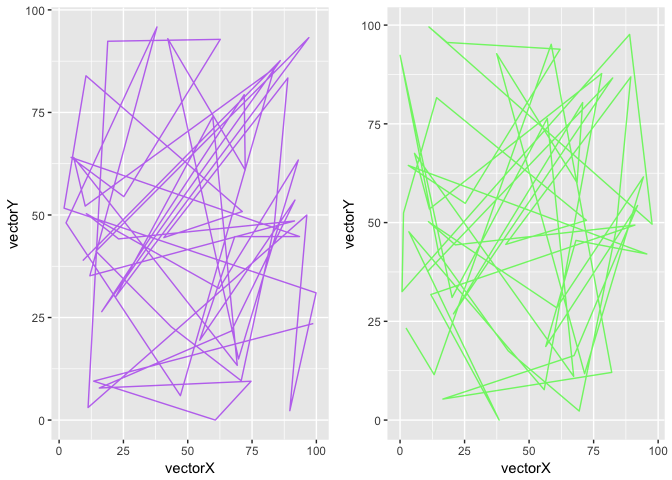
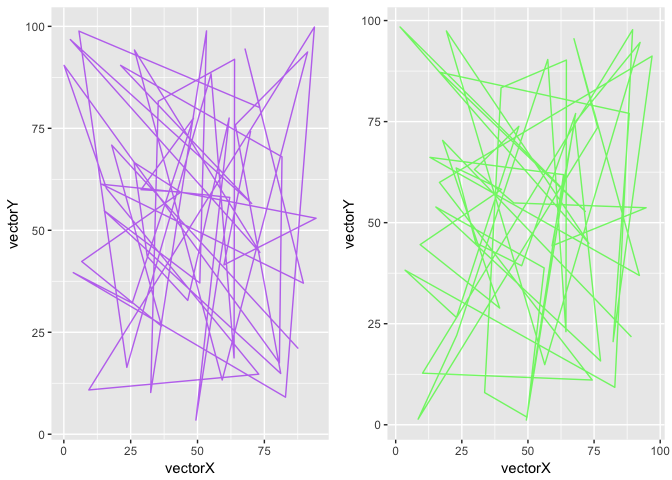
caution

diff --git a/XY-molecular-diffusion/mol-diffusion.md b/XY-molecular-diffusion/mol-diffusion.md
@@ -64,14 +64,16 @@ diffusion.sim <- sim(diffusion.model)
 out(diffusion.sim)[[34]]$x
 ```
 
-    ##  [1] 10.885741 83.669403 18.296181 73.294348 70.254538 39.084972 71.612993
-    ##  [8] 92.359621 62.731695 11.097747 21.794119 91.197294 12.543727 38.609391
-    ## [15]  3.379766 53.214167 77.734893 10.958748  7.319485 67.367878 57.653159
-    ## [22] 22.434465 97.511995 12.560244 41.980000 71.533695 83.913634 86.232083
-    ## [29] 40.712220 72.364760 12.469860  1.752888 99.692449 87.625889 97.472081
-    ## [36] 11.545896 17.837459 62.613281 24.962542  3.078355 94.400277 68.085612
-    ## [43] 57.393664 91.967703 66.916186 14.335474 76.902257 61.111829 12.549573
-    ## [50]  0.679925
+    ##  [1] 89.01311736 17.35509104 38.89933667  8.61174157 38.56107661
+    ##  [6] 24.71023626 30.02875948 48.39796311 65.34214774 48.18045579
+    ## [11] 61.81210263 11.84914319 89.28195877 68.67182108 74.17385669
+    ## [16]  6.17341074 21.32980205 56.98663007 61.20544184 63.13575690
+    ## [21] 39.70584314 31.82293600 49.56178737 53.17552185 15.52038291
+    ## [26] 80.12240186 66.83647257 94.01077226 58.04066604 20.13629380
+    ## [31] 73.19891449  0.01089931 71.49542660 17.54140149 84.14100287
+    ## [36] 80.67124307 98.82442989 17.79639744 71.48920893  8.03830982
+    ## [41] 91.63653394 83.61048827  3.30958971 24.01592222 46.80807161
+    ## [46] 28.71856715 43.73080681 94.42781953 59.26492166 69.62789049
 
 ``` r
 plot(out(diffusion.sim)[[34]]$x)
@@ -119,13 +121,13 @@ points.df$rowNum <- seq.int(nrow(points.df))
 head(points.df)
 ```
 
-    ##    vectorX  vectorY rowNum
-    ## 1 10.88574 34.17376      1
-    ## 2 83.66940 86.78902      2
-    ## 3 18.29618 27.53370      3
-    ## 4 73.29435 79.99880      4
-    ## 5 70.25454 56.44146      5
-    ## 6 39.08497 93.04567      6
+    ##     vectorX  vectorY rowNum
+    ## 1 89.013117 23.25283      1
+    ## 2 17.355091 70.10649      2
+    ## 3 38.899337 30.02460      3
+    ## 4  8.611742 44.15206      4
+    ## 5 38.561077 57.58343      5
+    ## 6 24.710236 63.53623      6
 
 ``` r
 plotupca(points.df, type="S3")
@@ -150,26 +152,17 @@ for (j in 1:50) {
     rm("path.df")
 }
 # move.list is a list of dataframes that individually represent the x,y path
-# of each particle (row1 represnts particle1)
-# walk through the 50 particles in each move to collect its path
+# of each particle (row1/df1 represents particle1)
+# CAUTION: wrap-around is not identified
 
 # plot the path of particle #21 and #41
 df <- as.data.frame(move.list[21])
 gg1 <- ggplot()  +
-    geom_path(aes(x=vectorX, y=vectorY), df, fill="green", shape=21, colour = "purple", alpha=0.6) 
-```
-
-    ## Warning: Ignoring unknown parameters: fill, shape
-
-``` r
+    geom_path(aes(x=vectorX, y=vectorY), df, colour = "purple", alpha=0.6) 
 df <- as.data.frame(move.list[41])
 gg2 <- ggplot()  +
-    geom_path(aes(x=vectorX, y=vectorY), df, fill="red", shape=21, colour = "green", alpha=0.6)
-```
+    geom_path(aes(x=vectorX, y=vectorY), df, colour = "green", alpha=0.6)
 
-    ## Warning: Ignoring unknown parameters: fill, shape
-
-``` r
 grid.arrange(gg1, gg2, ncol=2, nrow=1)
 ```
 
@@ -180,57 +173,57 @@ head(out(diffusion.sim)[22])
 ```
 
     ## [[1]]
-    ##            x          y           a
-    ## 1   9.904286  38.152910   4460.2538
-    ## 2  86.039838  88.638207    491.6006
-    ## 3  16.473467  25.438553    733.4626
-    ## 4  72.584688  80.103823    421.8601
-    ## 5  73.305582  61.221653    339.5749
-    ## 6  41.672000  92.159517    500.4822
-    ## 7  69.381940  13.957178    651.5095
-    ## 8  92.131543  62.872739    349.2734
-    ## 9  63.055112  32.533073    666.4903
-    ## 10 10.778524  50.269702    376.7374
-    ## 11 23.113349  43.966530    457.0753
-    ## 12 91.691349  48.523113    779.0287
-    ## 13 11.100714  35.694200   1472.8588
-    ## 14 37.166909  96.313340   4199.8139
-    ## 15  2.858997  47.976334   2336.8010
-    ## 16 47.630362   5.069546    350.7921
-    ## 17 83.341325  86.686554    956.8694
-    ## 18 10.215150  51.982006    627.0972
-    ## 19  4.905208  63.385000    575.6021
-    ## 20 69.470302  12.362827   1255.2904
-    ## 21 58.727591  73.699242    499.7505
-    ## 22 22.922085  30.492111    320.8537
-    ## 23 97.422809  92.293818 677998.4484
-    ## 24 13.317590  41.227923    606.2760
-    ## 25 43.491548  21.727839    431.8421
-    ## 26 69.921589  10.091484    461.2886
-    ## 27 83.732071  47.325711    622.8063
-    ## 28 87.923358  83.450409    706.8117
-    ## 29 40.891840  44.530141   2576.3925
-    ## 30 71.054676  50.707806    720.1488
-    ## 31 11.371174  83.543102   2581.9899
-    ## 32  1.980028  51.852527    623.3055
-    ## 33 99.216681  31.758016    699.7441
-    ## 34 89.045267   1.513541   1417.7442
-    ## 35 96.473925  50.069068    974.3295
-    ## 36 11.783992   2.206031    382.2608
-    ## 37 19.812798  92.780180   1552.3858
-    ## 38 61.950298  93.520303    668.3841
-    ## 39 25.255545  54.635157    371.6589
-    ## 40  3.786678  63.569945    518.8582
-    ## 41 93.263712  44.818077    323.1941
-    ## 42 68.324898  44.913098   1653.7419
-    ## 43 55.359178  18.740780    369.8915
-    ## 44 91.807412  53.484279   1984.6272
-    ## 45 66.741517  20.732597    293.5253
-    ## 46 15.691627   8.811674    711.4888
-    ## 47 74.885948   8.505724    708.6987
-    ## 48 61.295577 100.000000    363.4866
-    ## 49 12.575562   8.959802    355.5578
-    ## 50 99.805539  23.526666   1300.6031
+    ##             x         y         a
+    ## 1  88.1069419 21.903629 1056.7034
+    ## 2  18.8116680 70.491283  451.9840
+    ## 3  37.0608377 27.347766  962.3657
+    ## 4   5.7794797 42.783464  750.3946
+    ## 5  42.7372491 59.137214  600.2553
+    ## 6  25.7782510 65.773439  418.8945
+    ## 7  30.3068019 44.110944 5544.4007
+    ## 8  46.6616449 33.753496  673.5486
+    ## 9  62.4325551 76.716339  614.8185
+    ## 10 48.9068753  4.343983 2100.6617
+    ## 11 61.8639800 59.043732  900.2822
+    ## 12 13.5315581 62.032983  831.6806
+    ## 13 88.6111528 36.904057  336.2852
+    ## 14 68.5335120 93.779019  376.2736
+    ## 15 72.3216858 80.039220 1812.7264
+    ## 16  5.7362587 97.841703  501.1870
+    ## 17 24.0556703 17.256601 2979.2857
+    ## 18 56.0553789 88.174854  986.2690
+    ## 19 62.8664621 19.309190  988.9566
+    ## 20 63.8764422 92.931350  573.3307
+    ## 21 36.3002415 81.811485 5548.2279
+    ## 22 33.4412259 10.545159  452.7121
+    ## 23 52.4866987 99.333618  423.6467
+    ## 24 51.8468258 37.193486  389.6698
+    ## 25 15.2769723 54.711893 7539.3866
+    ## 26 82.1135812 14.946973  615.8095
+    ## 27 63.4610771 75.121324 1065.8060
+    ## 28 92.0779951 93.281529  615.2939
+    ## 29 60.1973122 13.535993  389.8092
+    ## 30 25.5008266 93.788673  468.5204
+    ## 31 73.5055018 44.656011  534.5469
+    ## 32  3.3261951 97.223264  251.8070
+    ## 33 71.2306352 56.781904  534.2950
+    ## 34 21.1428668 89.450619  475.8792
+    ## 35 82.0159381 68.910794 6259.2100
+    ## 36 81.5952713 17.260739 1828.1973
+    ## 37  0.7626647 91.168229  446.9280
+    ## 38 16.9320044 60.420545  471.3892
+    ## 39 73.8808286 14.946369  496.5975
+    ## 40  9.1189651  9.879275 1569.0033
+    ## 41 94.7276022 99.922557  282.8154
+    ## 42 82.9729114  8.082292  815.3122
+    ## 43  4.1992440 38.882415  790.8475
+    ## 44 24.9968887 32.972442 1962.5239
+    ## 45 48.0448815 78.399923  850.2663
+    ## 46 29.8272395 59.715871  634.3531
+    ## 47 43.1425489 58.405969 7996.7735
+    ## 48 94.3509172 52.758425 1060.3177
+    ## 49 59.6085089 40.561467  833.8069
+    ## 50 69.7803882 75.356244 1208.0552
 
 ``` r
 main(diffusion.sim)
@@ -269,57 +262,57 @@ main(diffusion.sim)
 init(diffusion.sim)
 ```
 
-    ##              x         y          a
-    ## 1  11.51367584 42.343733 3.80553934
-    ## 2  80.41044753 82.087925 0.50471829
-    ## 3  19.52366978 25.800379 2.44874195
-    ## 4  70.92901058 83.219835 5.15400322
-    ## 5  74.38716008 60.071659 2.25078039
-    ## 6  45.42285865 93.222312 3.95235351
-    ## 7  69.29529742 15.106208 0.56040624
-    ## 8  97.35064150 65.854928 5.33685412
-    ## 9  63.72259946 33.004535 5.47427265
-    ## 10 11.74330940 50.291628 1.75540812
-    ## 11 26.45134991 38.704685 0.09382701
-    ## 12 90.77757765 48.568390 6.21585088
-    ## 13 16.94570868 29.518710 5.98024536
-    ## 14 37.11152007 91.364190 4.55094561
-    ## 15  3.14037064 48.633881 3.68534549
-    ## 16 46.78738061  7.763693 0.82107303
-    ## 17 86.48695978 85.624436 4.67180773
-    ## 18 10.90985956 51.381586 3.03460412
-    ## 19  0.05020567 61.425194 3.62198057
-    ## 20 69.69837253  7.639765 0.73166187
-    ## 21 63.80575302 73.970218 2.15707872
-    ## 22 21.23060238 28.433255 2.63912772
-    ## 23 95.40393329 95.420043 4.59189654
-    ## 24 10.93568329 41.478924 3.95428737
-    ## 25 47.04444632 25.576408 4.43245930
-    ## 26 68.32919887  5.680803 0.25736731
-    ## 27 83.05855840 47.088853 0.03295166
-    ## 28 87.84439249 87.045895 5.26988756
-    ## 29 43.11840474 41.792970 2.48784507
-    ## 30 70.45226609 51.389379 3.09274640
-    ## 31 14.25960257 86.957212 6.16065118
-    ## 32  2.78800349 51.848876 2.17096616
-    ## 33 95.76363196 31.557081 5.57663273
-    ## 34 86.90573603  1.981344 5.12534603
-    ## 35 96.19896994 50.177821 0.82277352
-    ## 36  9.51719952  5.820337 4.67467120
-    ## 37 19.75034627 93.394527 2.27971349
-    ## 38 64.10772353  1.434153 2.61972686
-    ## 39 25.44009876 56.381874 3.60083913
-    ## 40 10.08476634 65.203320 6.12234621
-    ## 41 93.54828261 43.853994 2.48665680
-    ## 42 68.03725860 44.704534 4.14509183
-    ## 43 51.11922307 20.307156 4.34974669
-    ## 44 93.12838861 53.602419 1.83340407
-    ## 45 71.32325284 22.832901 5.87316925
-    ## 46 14.36203083 14.341441 0.65693216
-    ## 47 76.58859410  2.804629 2.68748868
-    ## 48 63.74177441 98.557079 0.74001496
-    ## 49 17.56891161  7.370317 2.49826884
-    ## 50 95.22198534 23.331724 4.32955004
+    ##             x          y           a
+    ## 1  89.8176688 20.9175626 3.387127430
+    ## 2  17.5608011 69.8094813 1.483246387
+    ## 3  36.0628396 25.8613132 3.107248560
+    ## 4   3.2248680 42.3110943 0.137712781
+    ## 5  39.2654890 55.0047679 5.796740170
+    ## 6  23.0106839 65.0140717 5.527337248
+    ## 7  31.6099235 42.2819749 2.450001390
+    ## 8  42.3162634 33.9713274 2.009350406
+    ## 9  65.1827416 75.6699523 2.881626803
+    ## 10 52.9802584  3.8122732 6.159252631
+    ## 11 69.3161634 57.5289337 2.084791738
+    ## 12 11.6383054 62.6657421 2.454157323
+    ## 13 87.0053281 40.4591758 4.666168643
+    ## 14 68.9865886 90.3023596 5.753449563
+    ## 15 73.1338595 87.4366200 0.873787447
+    ## 16  8.3815161 98.4746788 4.530808450
+    ## 17 20.3488982 17.2032066 6.053773853
+    ## 18 56.8749255 94.4561264 0.916619158
+    ## 19 68.2660590 21.1796992 0.007671978
+    ## 20 64.8897163 92.7621396 2.688439101
+    ## 21 36.3935287 88.4673918 1.237992251
+    ## 22 29.7668572  7.5557267 1.084638004
+    ## 23 55.8973416  0.6793483 0.579682715
+    ## 24 49.7417367 38.3464492 3.546079531
+    ## 25 15.9644923 54.4672432 3.289748782
+    ## 26 87.3064513 18.4615904 3.974448490
+    ## 27 63.3028936 77.6207658 5.543305626
+    ## 28 90.3343166 96.3508712 1.714354829
+    ## 29 54.5171436 13.6325621 0.339602018
+    ## 30 27.7560913  0.8946603 1.612901712
+    ## 31 72.9767401 43.7358724 2.576238408
+    ## 32  3.2180990 98.7733793 2.896746097
+    ## 33 69.8418966 60.8247170 4.463884358
+    ## 34 26.2880032 92.7181595 3.006795205
+    ## 35 77.8352359 65.3100064 0.535510467
+    ## 36 78.8171917 20.0019937 3.225144307
+    ## 37 98.2964007 91.2003888 4.075325148
+    ## 38 10.5916161 56.2403478 3.098800737
+    ## 39 70.2099336 18.9800677 4.978664838
+    ## 40  8.7961914  8.0501889 5.720089552
+    ## 41  0.8163733  0.9506251 5.425969913
+    ## 42 89.5824264 11.6603815 2.413162890
+    ## 43  2.3256850 39.3538766 1.998334728
+    ## 44 22.7789989 36.0522785 4.067705643
+    ## 45 50.3753918 73.0035759 2.695442738
+    ## 46 28.1467442 63.3978484 2.195689804
+    ## 47 44.2778106 63.7572796 2.474120815
+    ## 48 93.9510361 52.3763277 0.274196285
+    ## 49 62.1560400 42.5575109 5.380322927
+    ## 50 69.9481701 73.9851655 2.780082877
 
 ``` r
 parms(diffusion.sim)
